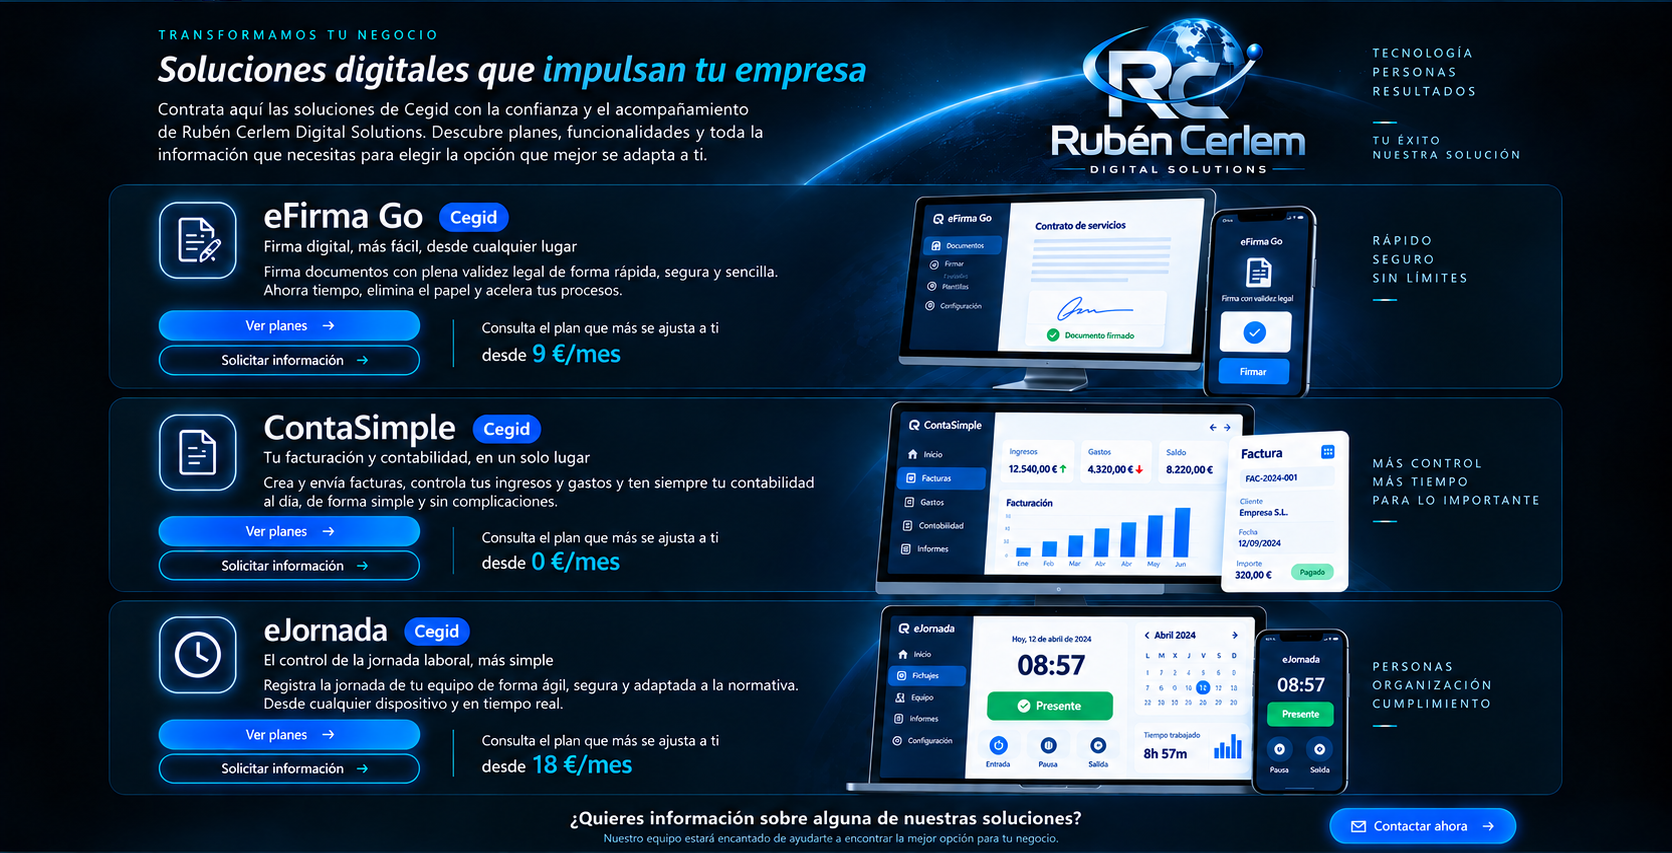
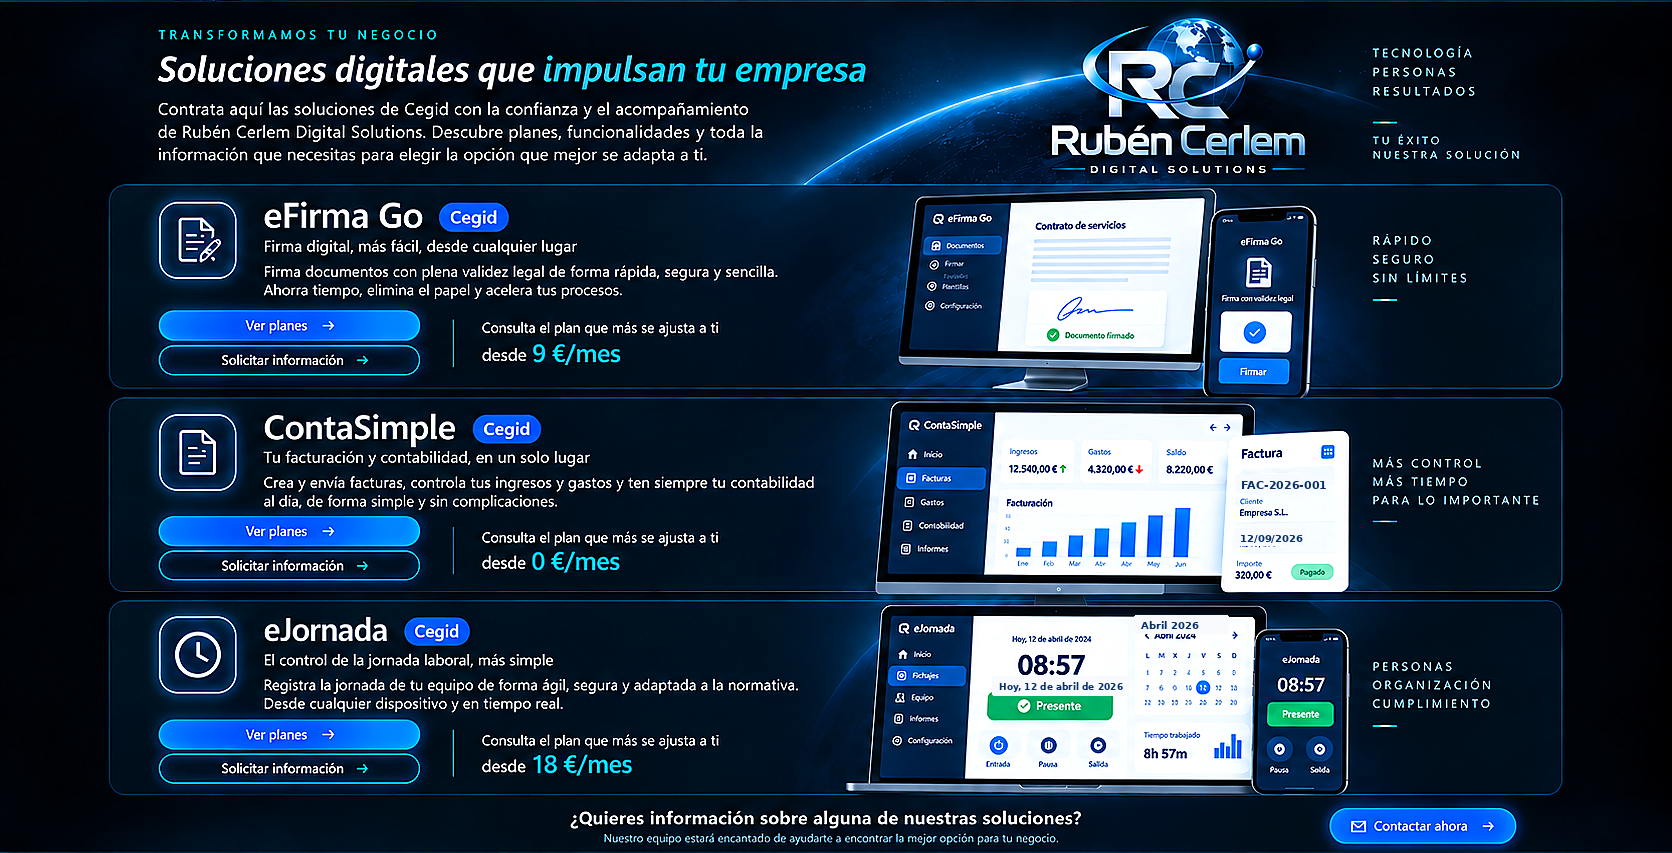
Add files via upload

diff --git a/css/styles.css b/css/styles.css
@@ -1818,3 +1818,66 @@ html[data-theme="dark"] .signed-check-signature .signature-img-dark{display:inli
 .hs-efirma-plans,.hs-efirma-info,.hs-conta-plans,.hs-conta-info,.hs-jornada-plans,.hs-jornada-info,.hs-contact-bottom{
   letter-spacing:0;
 }
+
+
+/* === V21 · centrado exacto, texto más vivo y fechas 2026 === */
+/* Coordenadas ajustadas al botón visual real del lienzo 1672×853. */
+.hs-efirma-plans{left:9.57%;top:36.46%;width:15.55%;height:3.52%}
+.hs-efirma-info{left:9.57%;top:40.45%;width:15.55%;height:3.64%}
+.hs-conta-plans{left:9.57%;top:60.49%;width:15.55%;height:3.52%}
+.hs-conta-info{left:9.57%;top:64.48%;width:15.55%;height:3.64%}
+.hs-jornada-plans{left:9.57%;top:84.29%;width:15.55%;height:3.64%}
+.hs-jornada-info{left:9.57%;top:88.28%;width:15.55%;height:3.75%}
+.hs-contact-bottom{left:79.37%;top:94.72%;width:11.42%;height:3.99%}
+
+.v15-hotspot.v18-action{
+  display:flex!important;
+  align-items:center!important;
+  justify-content:center!important;
+  text-align:center!important;
+  padding:0 10px!important;
+  line-height:1!important;
+}
+.v15-hotspot.v18-action > span{
+  display:flex!important;
+  align-items:center!important;
+  justify-content:center!important;
+  height:100%!important;
+  margin:0!important;
+  padding:0!important;
+  line-height:1!important;
+}
+.v15-hotspot.v18-contact{
+  gap:7px!important;
+}
+.v15-hotspot.v18-contact .v18-envelope{
+  height:100%!important;
+  display:flex!important;
+  align-items:center!important;
+  justify-content:center!important;
+  margin:0!important;
+}
+
+/* Refuerzo tipográfico en páginas de producto, manteniendo el estilo existente. */
+.product-page-hero .title-row h1{
+  font-weight:900;
+  text-rendering:geometricPrecision;
+  -webkit-font-smoothing:antialiased;
+}
+.product-page-hero .hero-lead,
+.product-page-hero .hero-points li{
+  font-family:Arial,Helvetica,sans-serif;
+  font-weight:600;
+  letter-spacing:.005em;
+  color:color-mix(in srgb,var(--text) 84%,var(--muted));
+  text-rendering:optimizeLegibility;
+  -webkit-font-smoothing:antialiased;
+}
+html[data-theme="dark"] .product-page-hero .title-row h1{
+  color:#f8fbff;
+  text-shadow:0 0 14px rgba(80,181,255,.10);
+}
+html[data-theme="dark"] .product-page-hero .hero-lead,
+html[data-theme="dark"] .product-page-hero .hero-points li{
+  color:#e4eef8;
+}
